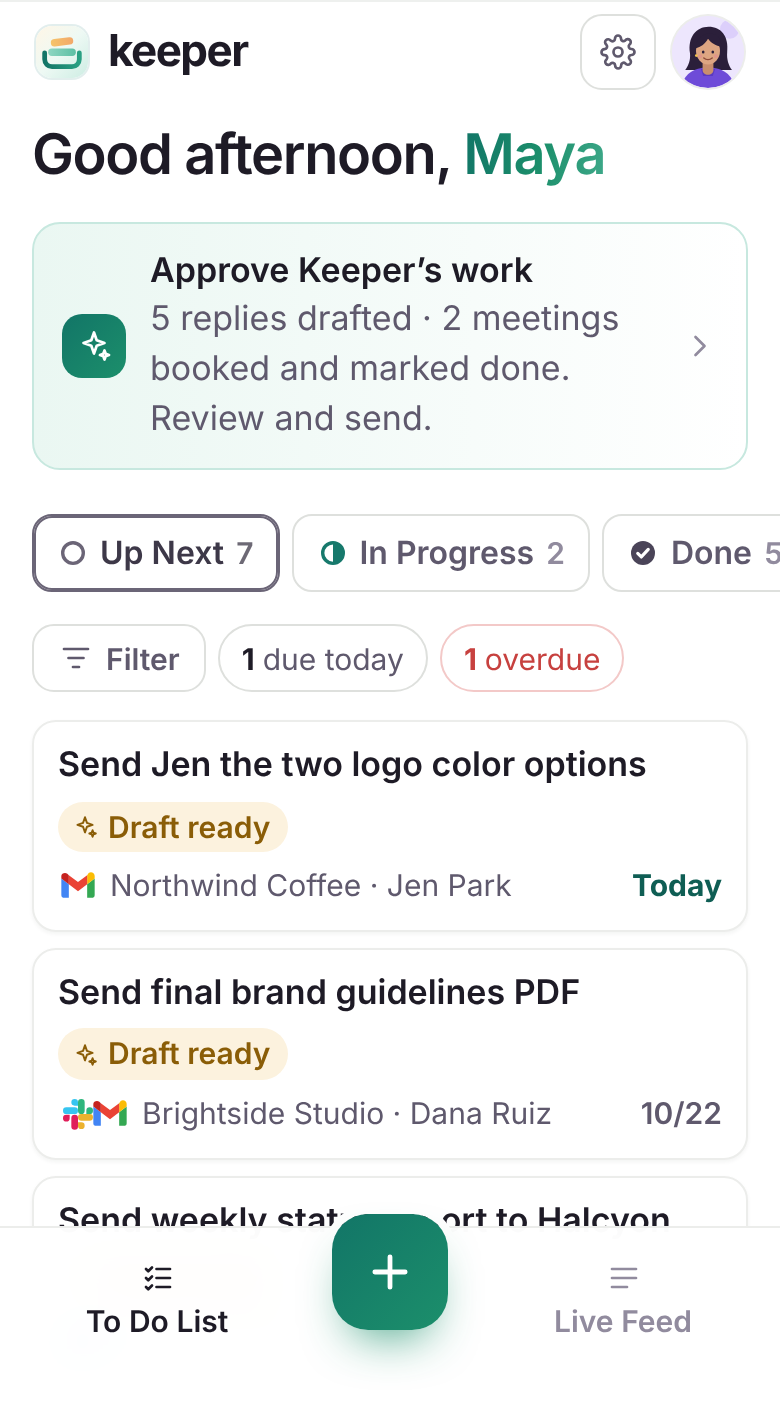
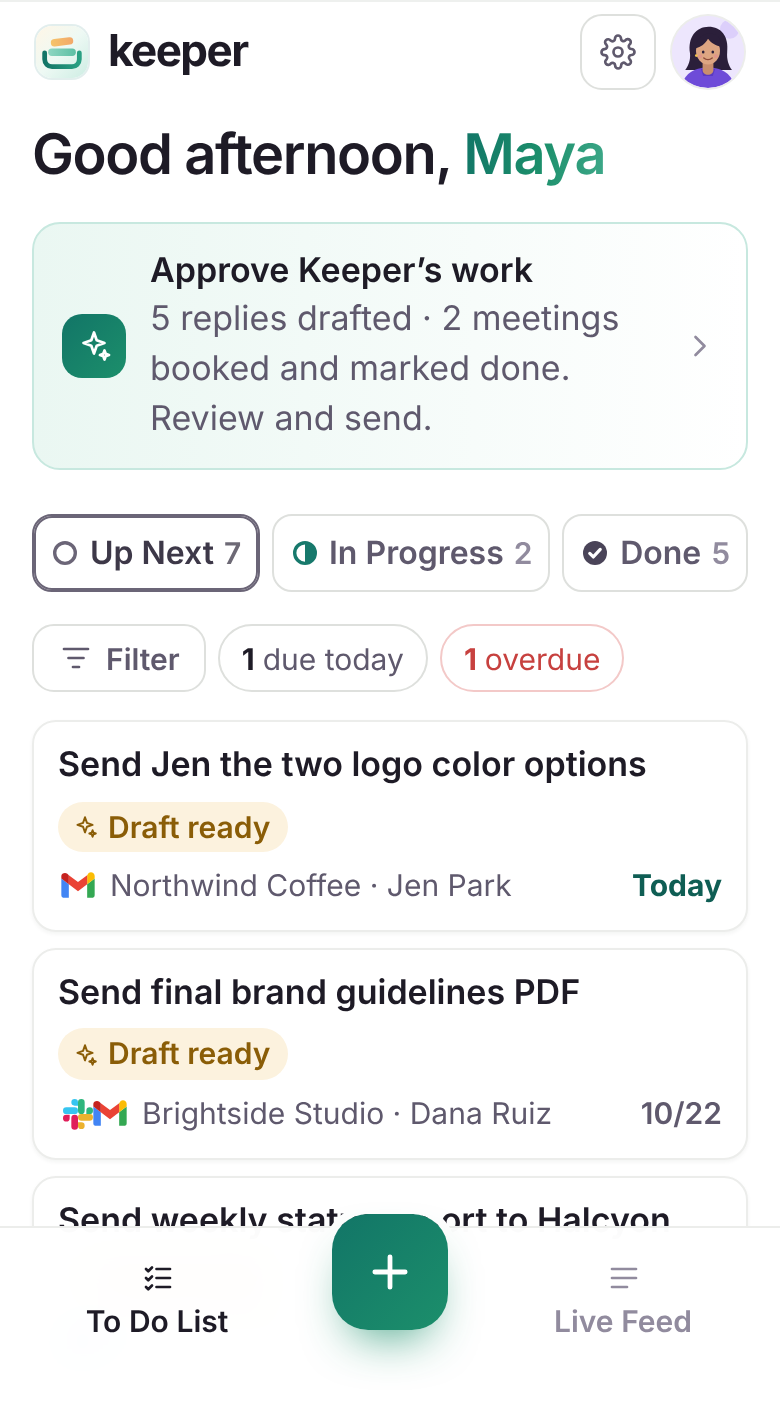
Mobile status tabs fit without scrolling; refreshed landing screenshots
Claude-Session: https://claude.ai/code/session_014YvqzXwex4AdHRyQpUpAPT

Changed region(s): [[0.0615, 0.368, 1.0, 0.4294]]

diff --git a/landing.html b/landing.html
@@ -694,8 +694,8 @@
       </article>
     </div>
     <div class="what-shots">
-      <figure class="what-shot rev"><div class="phone"><span class="btn-l1" aria-hidden="true"></span><span class="btn-l2" aria-hidden="true"></span><span class="btn-l3" aria-hidden="true"></span><span class="btn-r" aria-hidden="true"></span><div class="island" aria-hidden="true"></div><div class="screen"><div class="status" aria-hidden="true"><b>9:41</b><span class="sig"></span></div><img src="img/m-settings.png?v=1020b" alt="Settings showing Gmail, Slack, business texts and Zoom connected" loading="lazy"></div></div><figcaption><b>Every channel feeds in</b>Gmail, Outlook, Slack, business texts, Zoom and Meet.</figcaption></figure>
-      <figure class="what-shot rev"><div class="phone"><span class="btn-l1" aria-hidden="true"></span><span class="btn-l2" aria-hidden="true"></span><span class="btn-l3" aria-hidden="true"></span><span class="btn-r" aria-hidden="true"></span><div class="island" aria-hidden="true"></div><div class="screen"><div class="status" aria-hidden="true"><b>9:41</b><span class="sig"></span></div><img src="img/m-board.png?v=1020b" alt="The Keeper board on a phone, with tasks sorted by due date" loading="lazy"></div></div><figcaption><b>Get one list</b>Every commitment, sorted by due date, with drafts ready to approve.</figcaption></figure>
+      <figure class="what-shot rev"><div class="phone"><span class="btn-l1" aria-hidden="true"></span><span class="btn-l2" aria-hidden="true"></span><span class="btn-l3" aria-hidden="true"></span><span class="btn-r" aria-hidden="true"></span><div class="island" aria-hidden="true"></div><div class="screen"><div class="status" aria-hidden="true"><b>9:41</b><span class="sig"></span></div><img src="img/m-settings.png?v=1020c" alt="Settings showing Gmail, Slack, business texts and Zoom connected" loading="lazy"></div></div><figcaption><b>Every channel feeds in</b>Gmail, Outlook, Slack, business texts, Zoom and Meet.</figcaption></figure>
+      <figure class="what-shot rev"><div class="phone"><span class="btn-l1" aria-hidden="true"></span><span class="btn-l2" aria-hidden="true"></span><span class="btn-l3" aria-hidden="true"></span><span class="btn-r" aria-hidden="true"></span><div class="island" aria-hidden="true"></div><div class="screen"><div class="status" aria-hidden="true"><b>9:41</b><span class="sig"></span></div><img src="img/m-board.png?v=1020c" alt="The Keeper board on a phone, with tasks sorted by due date" loading="lazy"></div></div><figcaption><b>Get one list</b>Every commitment, sorted by due date, with drafts ready to approve.</figcaption></figure>
     </div>
     <div class="sec-cta center"><a class="btn primary" href="index.html">Try Keeper free</a></div>
   </div>
@@ -728,11 +728,11 @@
     </div>
     <div class="steps">
       <div class="step rev"><span class="k">1</span><h3>Connect your channels</h3><p>Turn on the inboxes, workspaces and calls you use. It takes about as long as making toast. Clients can text a business number so your personal one stays private.</p>
-        <div class="phone"><span class="btn-l1" aria-hidden="true"></span><span class="btn-l2" aria-hidden="true"></span><span class="btn-l3" aria-hidden="true"></span><span class="btn-r" aria-hidden="true"></span><div class="island" aria-hidden="true"></div><div class="screen"><div class="status" aria-hidden="true"><b>9:41</b><span class="sig"></span></div><img src="img/m-onb.png?v=1020b" alt="Choosing which channels Keeper tracks" loading="lazy"></div></div></div>
+        <div class="phone"><span class="btn-l1" aria-hidden="true"></span><span class="btn-l2" aria-hidden="true"></span><span class="btn-l3" aria-hidden="true"></span><span class="btn-r" aria-hidden="true"></span><div class="island" aria-hidden="true"></div><div class="screen"><div class="status" aria-hidden="true"><b>9:41</b><span class="sig"></span></div><img src="img/m-onb.png?v=1020c" alt="Choosing which channels Keeper tracks" loading="lazy"></div></div></div>
       <div class="step rev"><span class="k">2</span><h3>Review what Keeper found</h3><p>Every commitment lands with its client, due date and a link to the original message. Keep it or dismiss it.</p>
-        <div class="phone"><span class="btn-l1" aria-hidden="true"></span><span class="btn-l2" aria-hidden="true"></span><span class="btn-l3" aria-hidden="true"></span><span class="btn-r" aria-hidden="true"></span><div class="island" aria-hidden="true"></div><div class="screen"><div class="status" aria-hidden="true"><b>9:41</b><span class="sig"></span></div><img src="img/m-review.png?v=1020b" alt="Reviewing the tasks Keeper found, with Keep and Dismiss buttons" loading="lazy"></div></div></div>
+        <div class="phone"><span class="btn-l1" aria-hidden="true"></span><span class="btn-l2" aria-hidden="true"></span><span class="btn-l3" aria-hidden="true"></span><span class="btn-r" aria-hidden="true"></span><div class="island" aria-hidden="true"></div><div class="screen"><div class="status" aria-hidden="true"><b>9:41</b><span class="sig"></span></div><img src="img/m-review.png?v=1020c" alt="Reviewing the tasks Keeper found, with Keep and Dismiss buttons" loading="lazy"></div></div></div>
       <div class="step rev"><span class="k">3</span><h3>Approve the easy ones</h3><p>For routine replies and scheduling, Keeper prepares a draft or a booking. Approve it in one tap, or let it handle those on its own.</p>
-        <div class="phone"><span class="btn-l1" aria-hidden="true"></span><span class="btn-l2" aria-hidden="true"></span><span class="btn-l3" aria-hidden="true"></span><span class="btn-r" aria-hidden="true"></span><div class="island" aria-hidden="true"></div><div class="screen"><div class="status" aria-hidden="true"><b>9:41</b><span class="sig"></span></div><img src="img/m-draft.png?v=1020b" alt="A reply Keeper drafted, ready to send" loading="lazy"></div></div></div>
+        <div class="phone"><span class="btn-l1" aria-hidden="true"></span><span class="btn-l2" aria-hidden="true"></span><span class="btn-l3" aria-hidden="true"></span><span class="btn-r" aria-hidden="true"></span><div class="island" aria-hidden="true"></div><div class="screen"><div class="status" aria-hidden="true"><b>9:41</b><span class="sig"></span></div><img src="img/m-draft.png?v=1020c" alt="A reply Keeper drafted, ready to send" loading="lazy"></div></div></div>
     </div>
   </div>
 </section>
@@ -753,15 +753,15 @@
     <div class="feat-grid">
       <article class="feat f1 rev">
         <div class="feat-txt"><span class="tagline">Pulled from your channels</span><h3>See where every task came from</h3><p>The exact line from the email, Slack or text that created it, with the original one tap away.</p></div>
-        <div class="crop"><img src="img/m-task.png?v=1020b" alt="A task showing the original email it came from, with an Open in Gmail button" loading="lazy" style="width:100%;transform:translate(0%,-50%)"></div>
+        <div class="crop"><img src="img/m-task.png?v=1020c" alt="A task showing the original email it came from, with an Open in Gmail button" loading="lazy" style="width:100%;transform:translate(0%,-50%)"></div>
       </article>
       <article class="feat f2 rev">
         <div class="feat-txt"><span class="tagline">Mobile first</span><h3>Your day on one screen</h3><p>Sorted by due date. Swipe right to finish a task.</p></div>
-        <div class="crop"><img src="img/m-board.png?v=1020b" alt="The Keeper list on a phone, with drafts ready to approve" loading="lazy" style="width:72%;left:14%;transform:translate(0%,-32.8%)"></div>
+        <div class="crop"><img src="img/m-board.png?v=1020c" alt="The Keeper list on a phone, with drafts ready to approve" loading="lazy" style="width:72%;left:14%;transform:translate(0%,-32.8%)"></div>
       </article>
       <article class="feat f3 rev">
         <div class="feat-txt"><span class="tagline">Voice mode</span><h3>Say it, don’t type it</h3><p>Tap once and talk. Keeper turns a ramble into a clean task and reads it back.</p></div>
-        <div class="crop"><img src="img/m-voice.png?v=1020b" alt="Keeper voice capture screen with a large microphone button" loading="lazy" style="width:100%;transform:translate(0%,-27%)"></div>
+        <div class="crop"><img src="img/m-voice.png?v=1020c" alt="Keeper voice capture screen with a large microphone button" loading="lazy" style="width:100%;transform:translate(0%,-27%)"></div>
       </article>
     </div>
     <div class="sec-cta center"><a class="btn primary" href="index.html">Try Keeper free</a></div>

diff --git a/styles.css b/styles.css
@@ -1059,3 +1059,6 @@ body{background:#EEF0EE}
 .m-tools .sort-note{white-space:nowrap}
 /* review step footer: solid, covers cards scrolling beneath it */
 .ob-foot{bottom:-28px;background:#fff;padding:12px 0 28px;margin-bottom:-28px;z-index:2;box-shadow:0 -18px 18px -2px #fff}
+/* status tabs fit the phone width, no sideways scroll */
+.m-tabs{overflow:visible}
+.mtab{flex:1 1 auto;justify-content:center;padding:7px 8px;gap:5px;min-width:0;white-space:nowrap}
